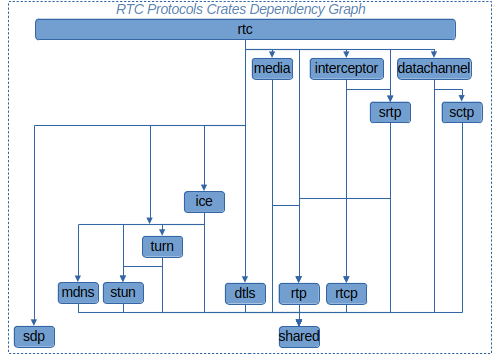
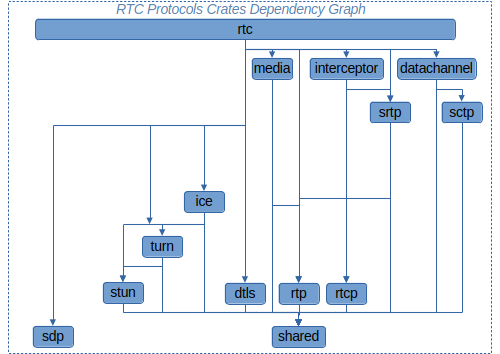
remove mDNS support

diff --git a/index.html b/index.html
@@ -124,8 +124,8 @@
           <input type="checkbox" id="dtls" name="dtls" disabled="disabled" checked="checked"> <label for="dtls">DTLS</label>
           <a href="https://crates.io/crates/rtc-dtls"><img src="https://img.shields.io/crates/v/rtc-dtls.svg"></a>
           <br>
-          <input type="checkbox" id="mdns" name="mdns" disabled="disabled"> <label for="mdns">mDNS</label>
-          <a href="https://crates.io/crates/rtc-mdns"><img src="https://img.shields.io/crates/v/rtc-mdns.svg"></a>
+          <!--input type="checkbox" id="mdns" name="mdns" disabled="disabled"> <label for="mdns">mDNS</label>
+          <a href="https://crates.io/crates/rtc-mdns"><img src="https://img.shields.io/crates/v/rtc-mdns.svg"></a-->
           &nbsp;
           <input type="checkbox" id="stun" name="stun" disabled="disabled" checked="checked"> <label for="stun">STUN</label>
           <a href="https://crates.io/crates/rtc-stun"><img src="https://img.shields.io/crates/v/rtc-stun.svg"></a>
@@ -146,7 +146,7 @@
             <tr>
               <td style="border: 0"><img src="./res/rtc_crates_dep_graph.png"></td>
               <td style="border: 0">&nbsp;</td>
-              <td style="border: 0"><img src="./res/webrtc_stack.png"></td>
+              <td style="border: 0"><img src="./res/rtc_stack.png"></td>
             </tr>
         </table>
         <hr>
